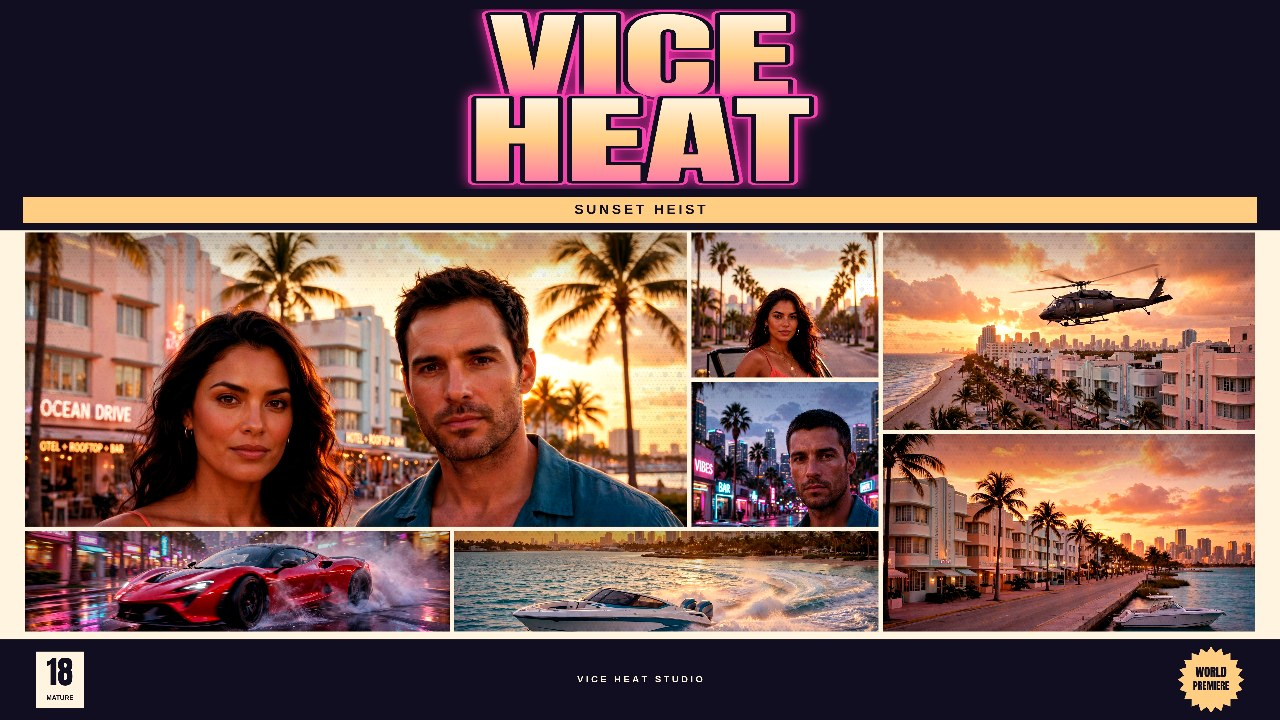
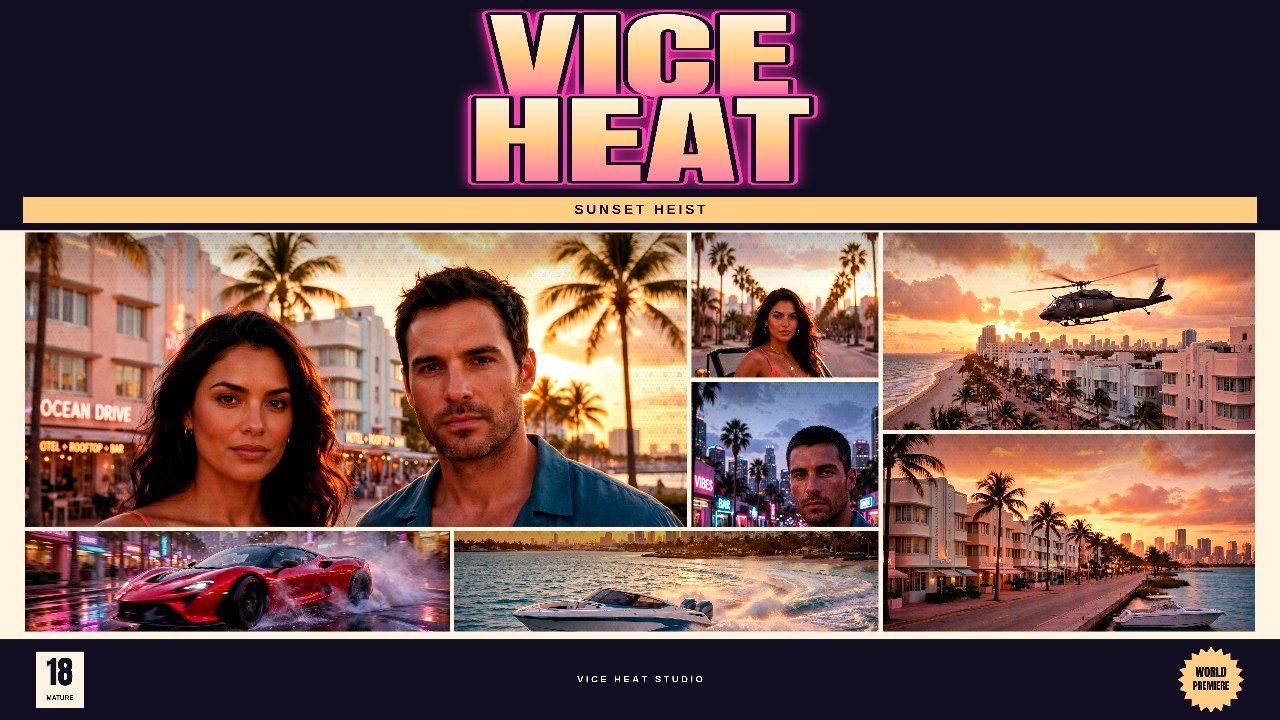
Round 10 fix: true cover-fit photo fill + head-safe crops — heads complete in every panel

Changed region(s): [[0.5312, 0.5194, 0.6875, 0.7333]]

diff --git a/app/src/cover.js b/app/src/cover.js
@@ -1,6 +1,7 @@
 // VICE HEAT Cover Studio — deterministic, canvas-only rendering.
 // Coordinates are normalized; lettering is always drawn at final resolution.
 import { getSceneCanvas } from './duo3d.js';
+import { SAMPLES } from './samples.js';
 
 const TAU = Math.PI * 2;
 const FONT = "Anton, 'Arial Black', sans-serif";
@@ -196,10 +197,10 @@ function keyArtPhotoPanels(aspect) {
       row(.695, .5, .305, .5), row(.695, 0, .305, .5)];
   }
   if (aspect < .9) {
-    return [row(0, 0, 1, .36),
-      row(0, .36, .6, .24), row(.6, .36, .4, .24),
-      row(0, .60, .5, .20), row(.5, .60, .5, .20),
-      row(.5, .80, .5, .20), row(0, .80, .5, .20)];
+    return [row(0, 0, 1, .38),
+      row(0, .38, .6, .26), row(.6, .38, .4, .26),
+      row(0, .64, .5, .18), row(.5, .64, .5, .18),
+      row(.5, .82, .5, .18), row(0, .82, .5, .18)];
   }
   // Portraits span both grid rows; the four landscape action photos occupy
   // the remaining two columns. This avoids squeezing heads into short tiles.
@@ -376,7 +377,7 @@ function placeholder(ctx, box, grade, index, s) {
   ctx.restore();
 }
 
-function photoPlacement(entry, box, safeBox = box) {
+function photoPlacement(entry, box, safeBox = box, strictCover = false) {
   const img = entry?.img;
   const iw = img?.naturalWidth || img?.videoWidth || img?.width;
   const ih = img?.naturalHeight || img?.videoHeight || img?.height;
@@ -385,10 +386,9 @@ function photoPlacement(entry, box, safeBox = box) {
   let fit = Math.max(box.w / iw, box.h / ih) * zoom;
   const head = entry.headBounds || SAMPLE_HEADS[entry.sampleId];
   const margin = Math.min(safeBox.w, safeBox.h) * .045;
-  // Ordinary focal cover-fit first. For an impossibly shallow/narrow panel,
-  // cap the scale to protect the whole head; extend only the source's outer
-  // edge pixels below instead of clipping hair or introducing empty gutters.
-  if (head) fit = Math.min(fit,
+  // Key art always fills by a uniform cover crop. Other photo layouts may
+  // reduce the fit to keep a sample head inside a tight panel.
+  if (!strictCover && head) fit = Math.min(fit,
     (safeBox.w - margin * 2) / ((head[2] - head[0]) * iw),
     (safeBox.h - margin * 2) / ((head[3] - head[1]) * ih));
   const w = iw * fit;
@@ -397,7 +397,15 @@ function photoPlacement(entry, box, safeBox = box) {
   const fy = clamp(finite(entry.focusY, .5), 0, 1);
   let x = box.x + clamp(box.w / 2 - fx * w, Math.min(0, box.w - w), Math.max(0, box.w - w));
   let y = box.y + clamp(box.h / 2 - fy * h, Math.min(0, box.h - h), Math.max(0, box.h - h));
-  if (head) {
+  const headTop = SAMPLES.find(sample => sample.id === entry.sampleId)?.headTop;
+  if (Number.isFinite(headTop)) {
+    // Move the source window above the hair, preserving uniform cover-fit.
+    const top = Math.max(0, Math.min(headTop - .02,
+      (head?.[1] ?? headTop) - .02));
+    y = clamp(Math.max(y, box.y - top * h),
+      box.y + Math.min(0, box.h - h), box.y + Math.max(0, box.h - h));
+  }
+  if (!strictCover && head) {
     x = clamp(x, safeBox.x + margin - head[0] * w,
       safeBox.x + safeBox.w - margin - head[2] * w);
     y = clamp(y, safeBox.y + margin - head[1] * h,
@@ -406,9 +414,13 @@ function photoPlacement(entry, box, safeBox = box) {
   return { img, w, h, x, y, iw, ih };
 }
 
-function gradedPhoto(ctx, placement, box, grade) {
+function gradedPhoto(ctx, placement, box, grade, strictCover = false) {
   const { img, x, y, w, h, iw, ih } = placement;
   const draw = () => {
+    if (strictCover) {
+      ctx.drawImage(img, x, y, w, h);
+      return;
+    }
     // Nine-slice edge extension is normally zero width/height. It is only
     // needed when full-head safety and strict cover-fit cannot both hold.
     const xs = [box.x, clamp(x, box.x, box.x + box.w),
@@ -476,7 +488,7 @@ function headSafeBox(points, box) {
   return best || box;
 }
 
-function drawPanel(ctx, points, entry, grade, index, s) {
+function drawPanel(ctx, points, entry, grade, index, s, strictCover = false) {
   const box = bounds(points);
   ctx.save();
   trace(ctx, points);
@@ -494,10 +506,10 @@ function drawPanel(ctx, points, entry, grade, index, s) {
     Math.abs(p[0] - points[(i + 1) % 4][0]) < 1e-6 ||
     Math.abs(p[1] - points[(i + 1) % 4][1]) < 1e-6);
   const safeBox = entry?.img && !rectangular ? headSafeBox(points, box) : box;
-  const placement = drawn ? null : photoPlacement(entry, box, safeBox);
+  const placement = drawn ? null : photoPlacement(entry, box, safeBox, strictCover);
   if (placement) {
     try {
-      gradedPhoto(ctx, placement, box, grade);
+      gradedPhoto(ctx, placement, box, grade, strictCover);
       drawn = true;
     } catch { /* An unloaded or unsupported image gets a useful placeholder. */ }
   }
@@ -1001,7 +1013,7 @@ export function drawCover(ctx, W, H, state = {}) {
     } else atmosphere(ctx, W, H, grade, s);
     shapes.forEach((points, index) => {
       const entry = photos[index] || (layout.scenes ? { art: 'scene:' + layout.scenes[index] } : null);
-      drawPanel(ctx, points, entry, grade, index, s);
+      drawPanel(ctx, points, entry, grade, index, s, layout.key === 'keyart-photo');
     });
     if (banded) {
       keyArtLettering(ctx, W, H, state, grade);

diff --git a/app/src/samples.js b/app/src/samples.js
@@ -4,18 +4,21 @@ export const SAMPLES = [
     src: 'samples/duo.jpg',
     label: 'Duo on Ocean Drive',
     focal: { x: 0.50, y: 0.34 },
+    headTop: 0.12,
   },
   {
     id: 'woman',
     src: 'samples/woman.jpg',
     label: 'Her — Sunset Boulevard',
     focal: { x: 0.45, y: 0.40 },
+    headTop: 0.32,
   },
   {
     id: 'man',
     src: 'samples/man.jpg',
     label: 'Him — Neon Nights',
     focal: { x: 0.60, y: 0.33 },
+    headTop: 0.18,
   },
   {
     id: 'boulevard',
